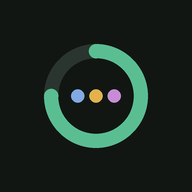
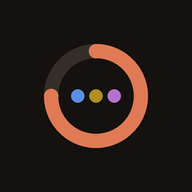
Тёплое оформление: оранжевый акцент, тёплый тёмный фон, новая иконка
Claude-Session: https://claude.ai/code/session_01N1ndSfSMqopPeeHBwwrg22

diff --git a/index.html b/index.html
@@ -4,7 +4,7 @@
 <meta charset="utf-8">
 <meta name="viewport" content="width=device-width, initial-scale=1, viewport-fit=cover">
 <title>Дневник КБЖУ</title>
-<meta name="theme-color" content="#111613">
+<meta name="theme-color" content="#15110E">
 <meta name="description" content="Личный дневник калорий и КБЖУ">
 <link rel="manifest" href="manifest.webmanifest">
 <link rel="icon" type="image/png" sizes="192x192" href="icons/icon-192.png">
@@ -16,9 +16,10 @@
 /* Layout: one narrow column like a food label — sticky header with tabs, day summary, then meal cards. */
 :root {
   /* Always dark, by request. */
-  --bg: #111613; --surface: #19201C; --surface-2: #151B18; --ink: #E6ECE8; --muted: #93A199;
-  --line: #2A3530; --accent: #5BBE93; --accent-ink: #0D1511; --accent-soft: #1D3129;
-  --prot: #5A8EE6; --fat: #C0782A; --carb: #B474CE; --warn: #F07C66; --warn-soft: #3A201B;
+  /* Warm dark palette with a coral-orange accent. */
+  --bg: #15110E; --surface: #201B17; --surface-2: #1A1612; --ink: #EFE7E1; --muted: #A69A90;
+  --line: #352D27; --accent: #E07A55; --accent-ink: #1B0F0A; --accent-soft: #3A2318;
+  --prot: #5A8EE6; --fat: #B0901F; --carb: #B474CE; --warn: #EF5B5B; --warn-soft: #3D1D1D;
   --shadow: 0 1px 2px rgba(0,0,0,.3);
   color-scheme: dark;
   --font-display: "Unbounded", "Golos Text", system-ui, sans-serif;
@@ -443,7 +444,7 @@ body.sheet-open { overflow: hidden; }
 textarea.field { min-height: 120px; font-family: ui-monospace, monospace; font-size: 12px; }
 
 /* Modal */
-.overlay { position: fixed; inset: 0; z-index: 20; background: rgba(10, 18, 14, .45); display: grid; place-items: center; padding: max(16px, env(safe-area-inset-top, 0px)) max(16px, env(safe-area-inset-right, 0px)) max(16px, env(safe-area-inset-bottom, 0px)) max(16px, env(safe-area-inset-left, 0px)); }
+.overlay { position: fixed; inset: 0; z-index: 20; background: rgba(15, 10, 8, .55); display: grid; place-items: center; padding: max(16px, env(safe-area-inset-top, 0px)) max(16px, env(safe-area-inset-right, 0px)) max(16px, env(safe-area-inset-bottom, 0px)) max(16px, env(safe-area-inset-left, 0px)); }
 .modal { width: 100%; max-width: 440px; max-height: 100%; overflow: auto; background: var(--surface); border-radius: 16px; padding: 18px; display: flex; flex-direction: column; gap: 14px; }
 .modal h2 { margin: 0; font-family: var(--font-display); font-weight: 500; font-size: 17px; }
 .label100 { border: 2px solid var(--ink); border-radius: 6px; padding: 10px 12px; display: flex; flex-direction: column; gap: 8px; }

diff --git a/sw.js b/sw.js
@@ -1,5 +1,5 @@
 /* Keeps the app working offline. Bump VERSION to make every device pick up a new release. */
-const VERSION = 'kbju-v11';
+const VERSION = 'kbju-v12';
 const SHELL = ['./', './index.html', './manifest.webmanifest', './icons/icon-192.png', './icons/icon-512.png'];
 const FONT_HOSTS = ['fonts.googleapis.com', 'fonts.gstatic.com'];
 
